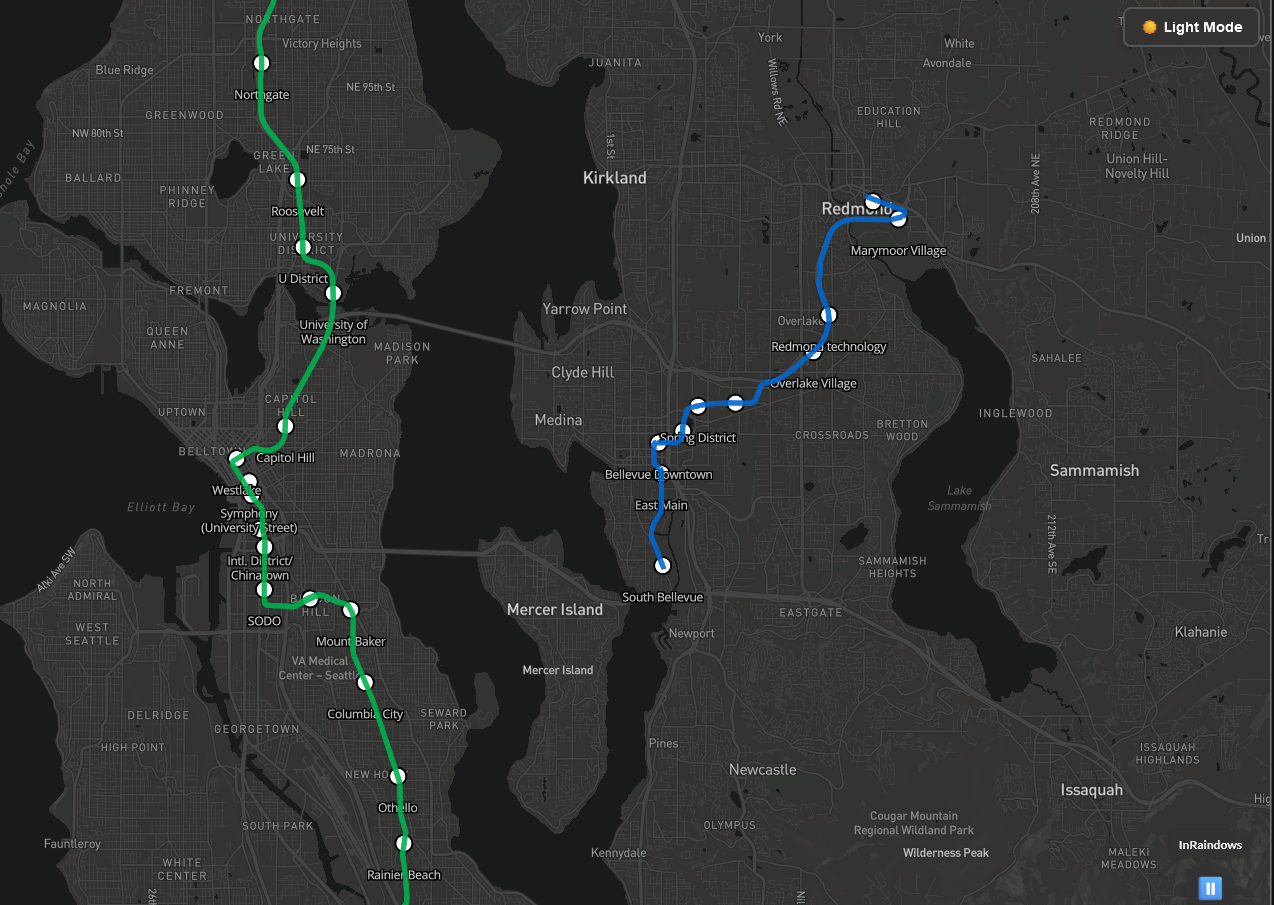
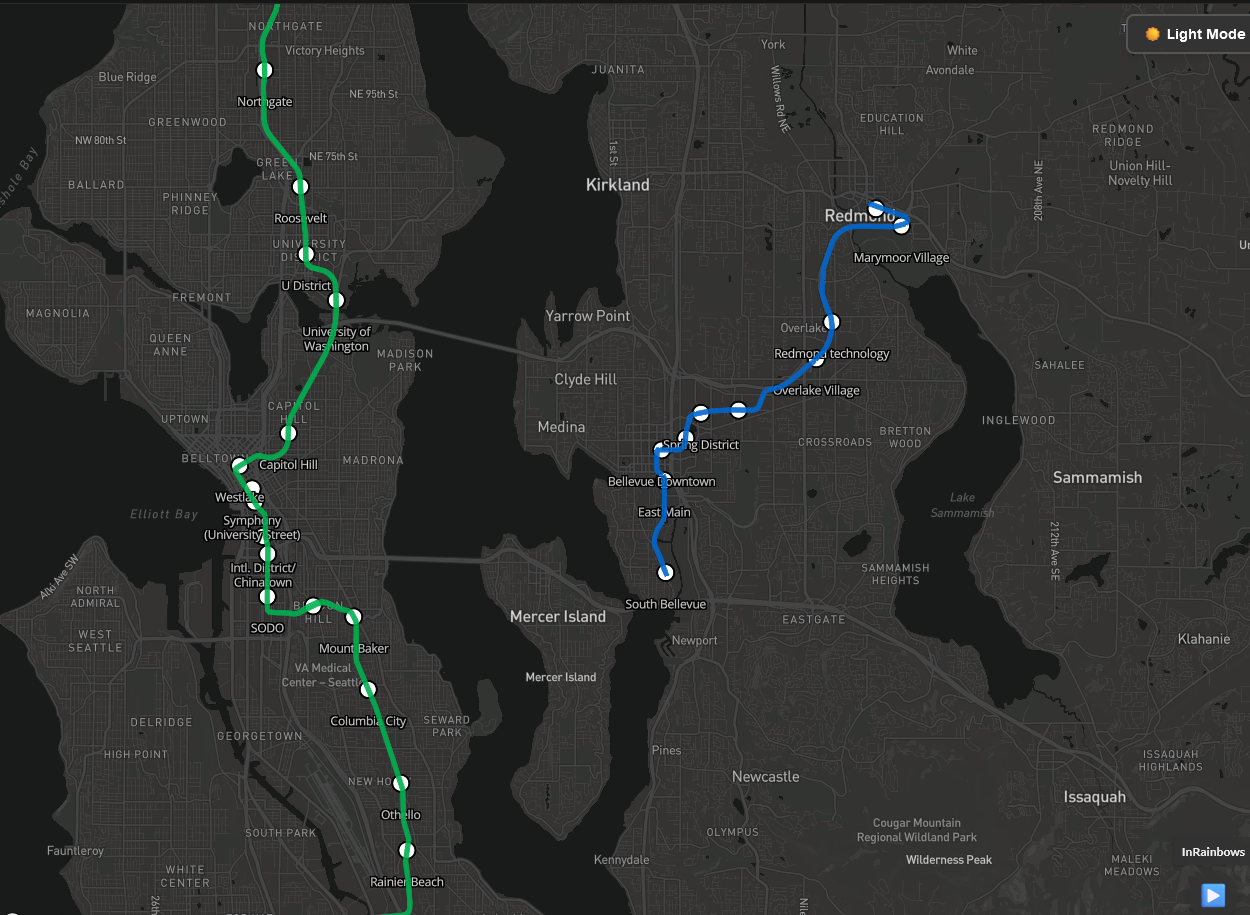
InRainbows_file_reorg

diff --git a/src/components/Controls/AudioPlayer.jsx b/src/components/Controls/AudioPlayer.jsx
@@ -63,7 +63,7 @@ const AudioPlayer = ({ isDarkMode }) => {
 
   return (
     <div style={musicPlayerContainerStyle}>
-      <div style={musicLabelStyle}>InRaindows </div>
+      <div style={musicLabelStyle}>InRainbows</div>
       <div style={audioPlayerStyle}>
         <audio 
           ref={audioRef} 
